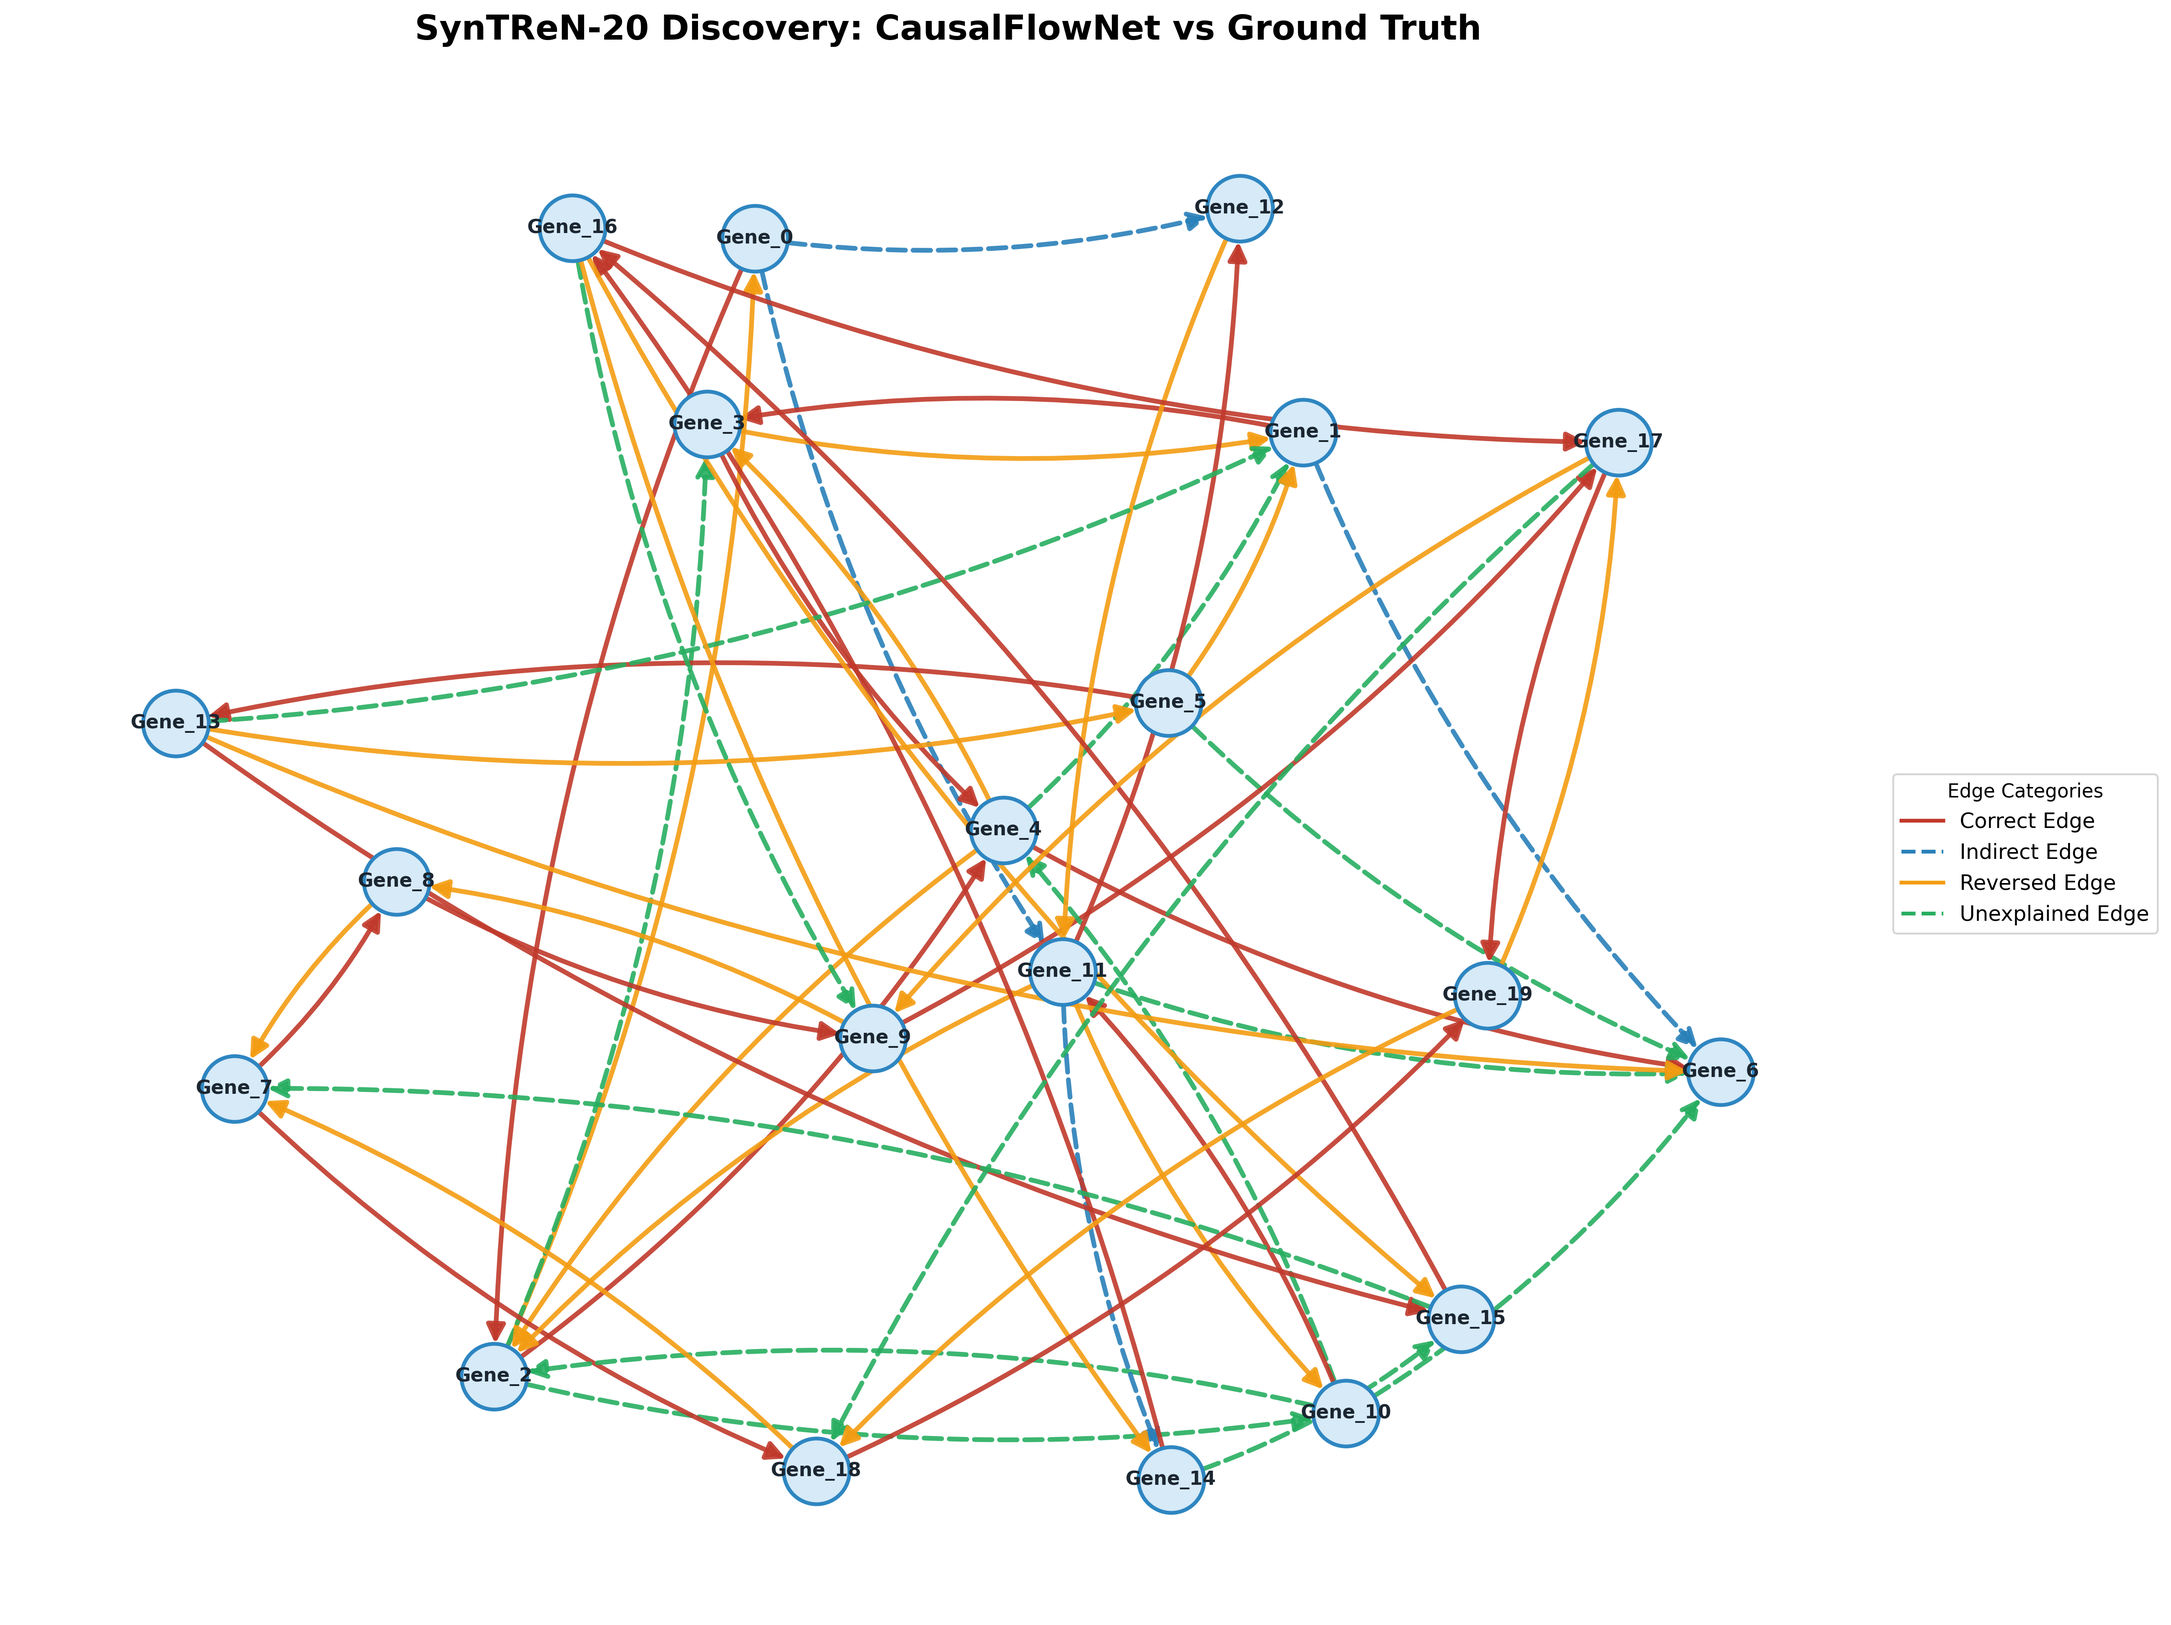
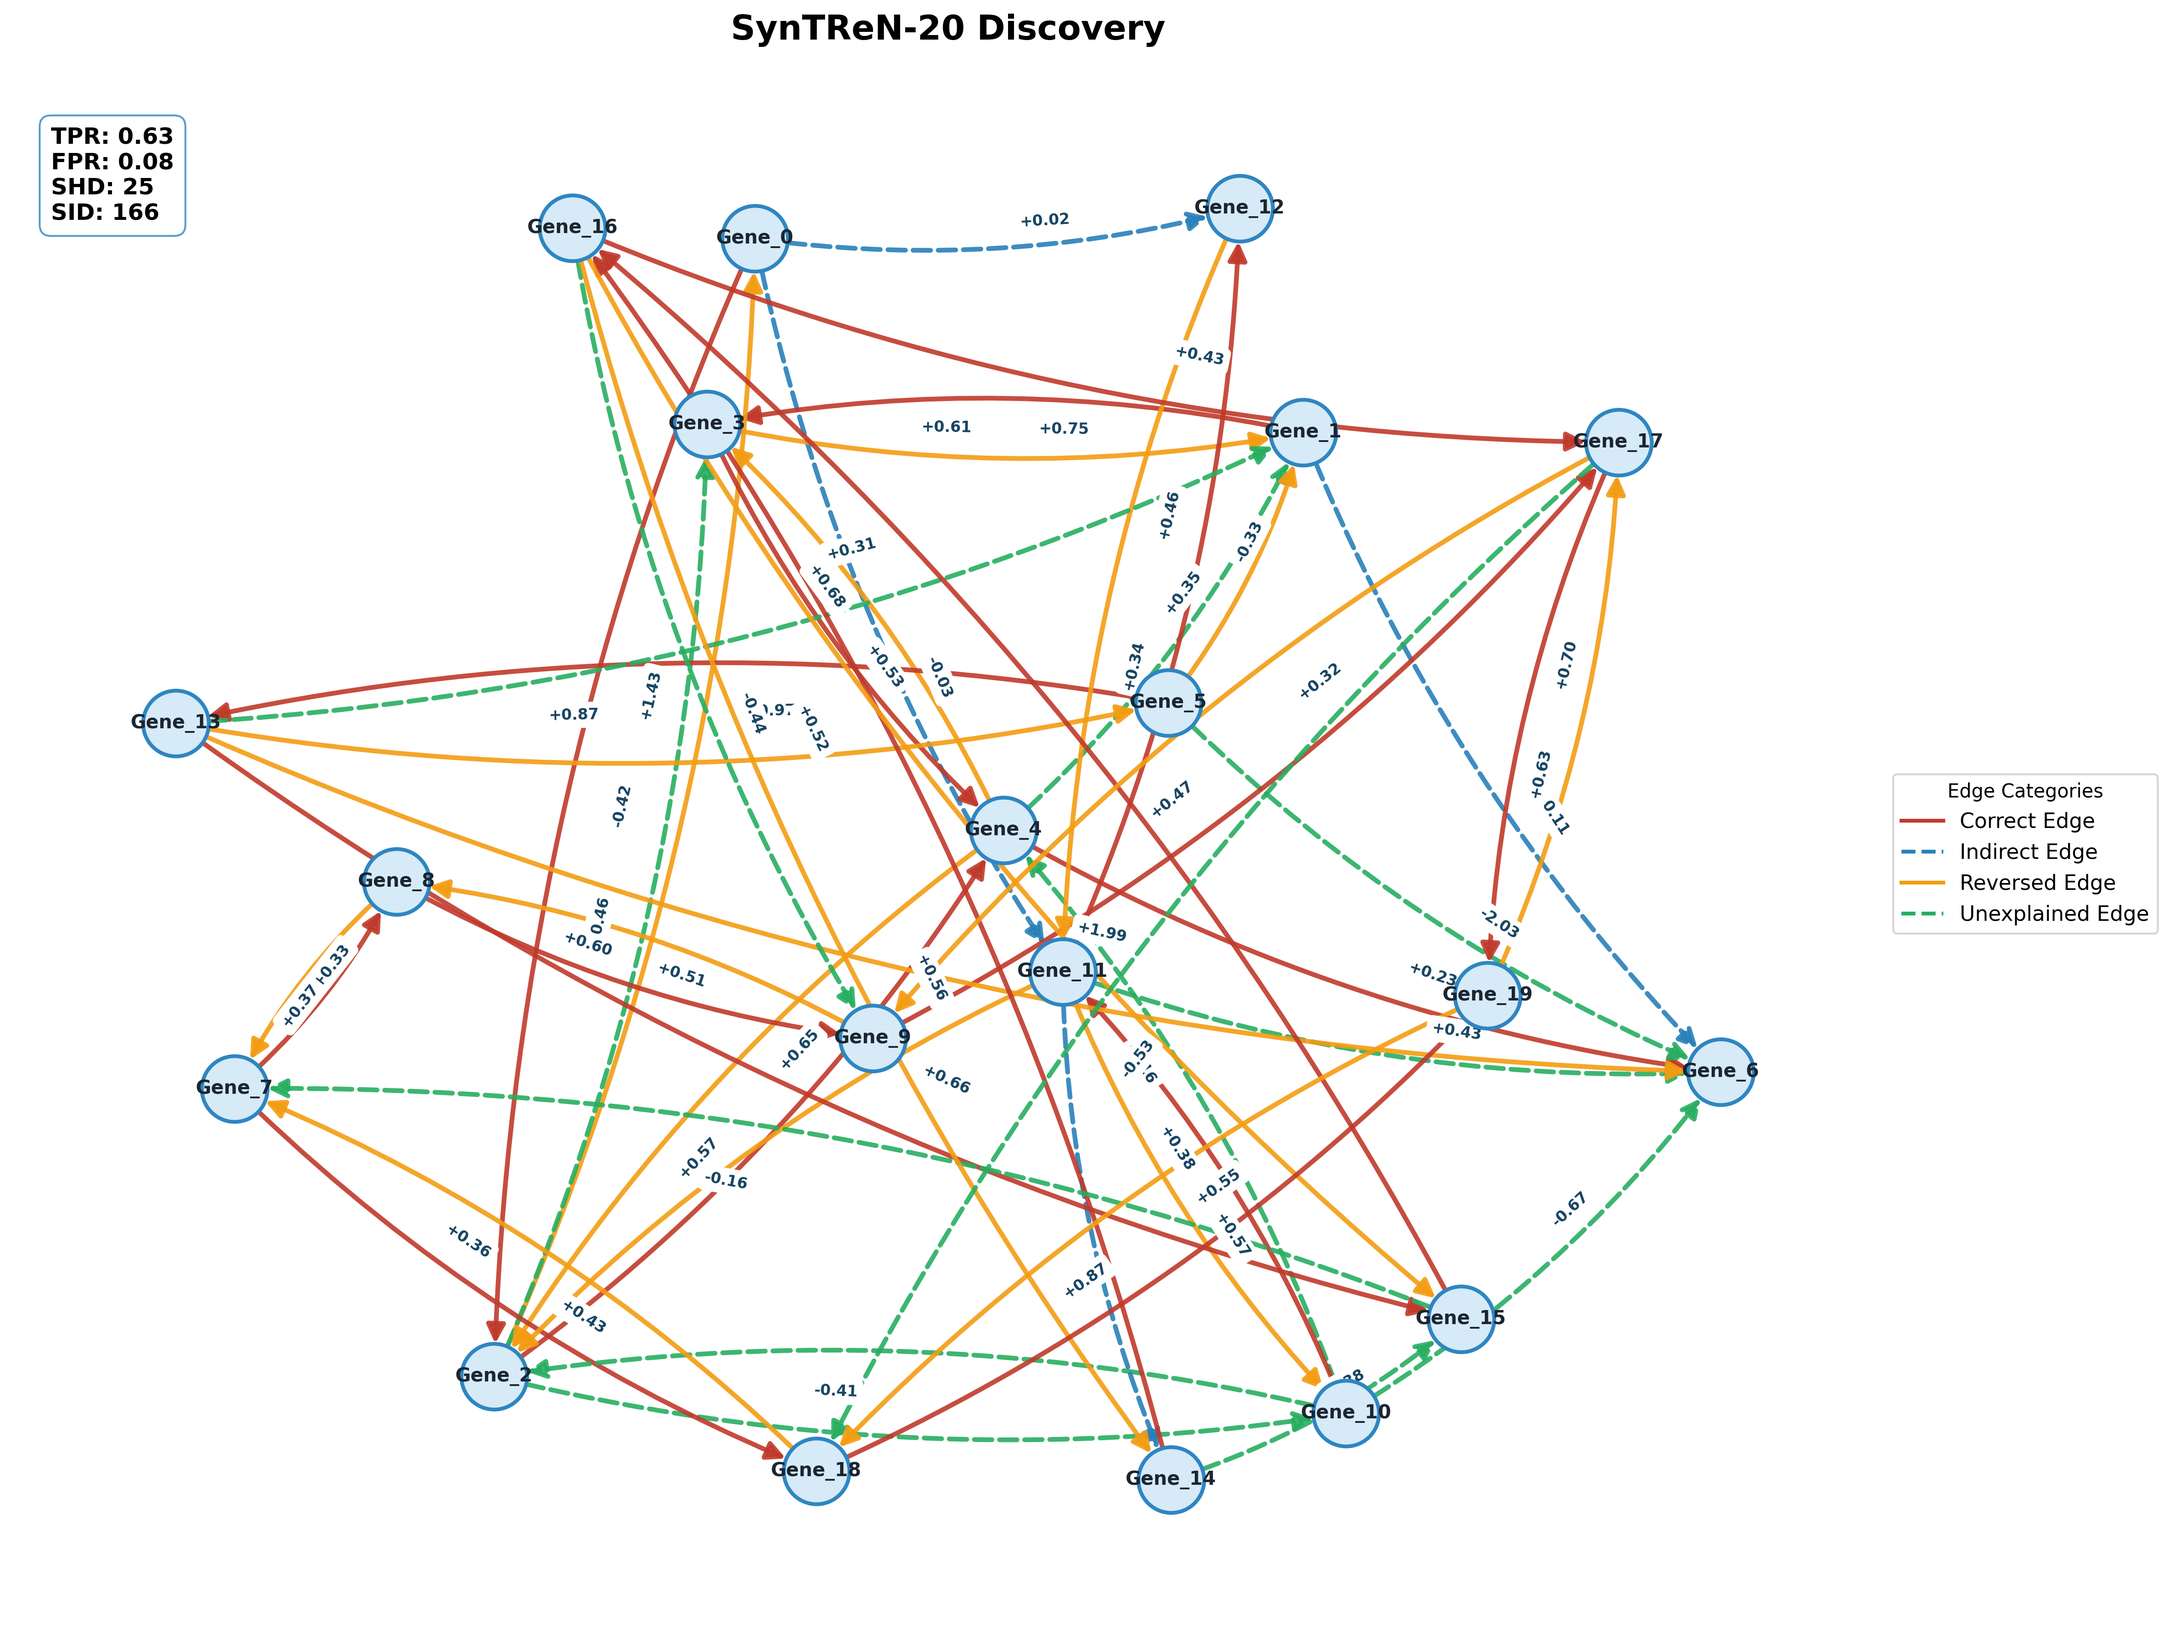
Clean up Chapter 3 visuals: remove GT diagrams, add interior ATE and Metrics to plots

diff --git a/test_sachs.py b/test_sachs.py
@@ -7,7 +7,7 @@ import seaborn as sns
 import networkx as nx
 from CausalFlowNet import CausalFlowNet
 from ultis.Evaluation import compute_metrics
-from ultis.visualize import plot_structure_comparison # Import premium comparison visualizer
+from ultis.visualize import plot_dag # Import premium visualizer / Nhập bộ vẽ hình cao cấp
 
 # Configuration
 CONFIG = {
@@ -94,46 +94,48 @@ def run_experiment():
     est_adj = (abs_weights > threshold).astype(int)
     metrics = compute_metrics(true_adj, est_adj)
     
-    display_results(model, X.cpu().numpy(), metrics, true_adj, est_adj, adj_weights, node_names)
+    # 6. Compute ATE Matrix for visualization / Tính toán ma trận ATE để trực quan hóa
+    ate_matrix = np.zeros((n_vars, n_vars))
+    for i in range(n_vars):
+        for j in range(n_vars):
+            if est_adj[i, j] == 1:
+                ate_matrix[i, j] = model.estimate_ate(X.cpu().numpy(), i, j)
     
-    # 6. Visual Comparison / So sánh bằng hình ảnh
-    visualize_comparison(true_adj, est_adj, node_names, adj_weights)
+    # 7. Visual Comparison / So sánh bằng hình ảnh
+    visualize_comparison(true_adj, est_adj, node_names, adj_weights, ate_matrix, metrics)
 
-def visualize_comparison(true_adj, est_adj, node_names, adj_weights):
+def visualize_comparison(true_adj, est_adj, node_names, adj_weights, ate_matrix, metrics):
     """
     Generate professional visualizations using the unified visualize.py suite.
     Tạo hình ảnh chuyên nghiệp bằng bộ công cụ visualize.py thống nhất.
     """
-    # 1. Adjacency Matrix Comparison (Heatmaps) / So sánh ma trận kề (Bản đồ nhiệt)
-    plt.figure(figsize=(16, 7))
-    plt.subplot(1, 2, 1)
-    sns.heatmap(true_adj, annot=True, cbar=False, cmap="Blues", 
-                xticklabels=node_names, yticklabels=node_names)
-    plt.title("Ground Truth Adjacency Matrix\n(Ma trận kề thực tế)")
-    
-    plt.subplot(1, 2, 2)
+    # 1. Adjacency Matrix Visualization / Trực quan hóa ma trận kề
+    plt.figure(figsize=(8, 7))
     sns.heatmap(est_adj, annot=True, cbar=False, cmap="Reds", 
                 xticklabels=node_names, yticklabels=node_names)
     plt.title("Estimated Adjacency Matrix\n(Ma trận kề ước tính)")
     
     plt.tight_layout()
     plt.savefig("sachs_adjacency_comparison.png")
-    print(f"\n[Artifact] Adjacency comparison saved to sachs_adjacency_comparison.png")
+    print(f"\n[Artifact] Estimated adjacency matrix saved to sachs_adjacency_comparison.png")
     plt.close()
 
-    # 2. Premium Causal Graph Comparison / So sánh đồ thị nhân quả cao cấp
-    # Using plot_structure_comparison to show GT and Discovery side-by-side
-    # Sử dụng plot_structure_comparison để hiển thị GT và Kết quả song song
-    plot_structure_comparison(
+    # 2. Premium Causal Graph with ATE Labels and Metrics
+    # We no longer use plot_structure_comparison to focus only on Discovered Graph
+    # Chúng ta không dùng plot_structure_comparison nữa để tập trung vào Đồ thị khám phá được
+    plot_dag(
         W_matrix=adj_weights, 
-        GT_matrix=true_adj, 
         labels=node_names, 
-        title="Sachs Dataset: Causal Discovery Analysis",
+        GT_matrix=true_adj, 
+        ate_matrix=ate_matrix,
+        metrics=metrics,
+        title="Sachs Dataset: Discovered Causal Structure (with ATE)",
         threshold=0.1, 
         save_path="sachs_graph_comparison.png",
-        figure_size=(18, 9)
+        figure_size=(14, 10),
+        node_size=2200
     )
-    print(f"[Artifact] Side-by-side graph comparison saved to sachs_graph_comparison.png")
+    print(f"[Artifact] Professional causal graph with ATE and Metrics saved to sachs_graph_comparison.png")
 
 def display_results(model, data, metrics, true_adj, est_adj, weights, node_names):
     print("\n" + "="*40)

diff --git a/test_syntren.py b/test_syntren.py
@@ -85,7 +85,7 @@ def generate_complex_regulatory_data(N=2000):
     return torch.tensor(data, dtype=torch.float32, device=device), true_adj
 
 def run_experiment():
-    print("=== CausalFlowNet V2 Experiment: Complex Regulatory (SynTReN-like) ===")
+    print("=== CausalFlowNet Experiment: Complex Regulatory (SynTReN-like) ===")
     set_seed(CONFIG['seed'])
     
     # 1. Generate Data
@@ -120,43 +120,46 @@ def run_experiment():
     # 5. Display Results / Hiển thị kết quả
     display_results(model, X.cpu().numpy(), metrics, true_adj, est_adj, adj_weights, node_names, threshold)
     
-    # 6. Visual Comparison / So sánh bằng hình ảnh
-    visualize_comparison(true_adj, est_adj, node_names, adj_weights)
+    # 6. Compute ATE Matrix for visualization / Tính toán ma trận ATE để trực quan hóa
+    ate_matrix = np.zeros((n_vars, n_vars))
+    for i in range(n_vars):
+        for j in range(n_vars):
+            if est_adj[i, j] == 1:
+                ate_matrix[i, j] = model.estimate_ate(X.cpu().numpy(), i, j)
+    
+    # 7. Visual Comparison / So sánh bằng hình ảnh
+    visualize_comparison(true_adj, est_adj, node_names, adj_weights, ate_matrix, metrics)
 
-def visualize_comparison(true_adj, est_adj, node_names, adj_weights):
+def visualize_comparison(true_adj, est_adj, node_names, adj_weights, ate_matrix, metrics):
     """
     Generate professional visualizations for SynTReN.
     Tạo hình ảnh chuyên nghiệp cho SynTReN.
     """
-    # 1. Adjacency Matrix Comparison (Heatmaps)
-    plt.figure(figsize=(16, 7))
-    plt.subplot(1, 2, 1)
-    sns.heatmap(true_adj, annot=False, cbar=False, cmap="Blues", 
-                xticklabels=False, yticklabels=False)
-    plt.title("SynTReN Ground Truth Matrix")
-    
-    plt.subplot(1, 2, 2)
+    # 1. Adjacency Matrix Visualization / Trực quan hóa ma trận kề
+    plt.figure(figsize=(8, 7))
     sns.heatmap(est_adj, annot=False, cbar=False, cmap="Reds", 
                 xticklabels=False, yticklabels=False)
     plt.title("SynTReN Estimated Matrix")
     
     plt.tight_layout()
     plt.savefig("syntren_adjacency_comparison.png")
-    print(f"\n[Artifact] Adjacency comparison saved to syntren_adjacency_comparison.png")
+    print(f"\n[Artifact] Estimated adjacency matrix saved to syntren_adjacency_comparison.png")
     plt.close()
 
-    # 2. Premium Causal Graph Comparison
+    # 2. Premium Causal Graph with ATE Labels
     plot_dag(
         W_matrix=adj_weights, 
         labels=node_names, 
         GT_matrix=true_adj, 
-        title="SynTReN-20 Discovery: CausalFlowNet vs Ground Truth",
+        ate_matrix=ate_matrix,
+        metrics=metrics,
+        title="SynTReN-20 Discovery",
         threshold=0.08, # Discovery threshold
         save_path="syntren_graph_comparison.png",
         figure_size=(16, 12),
         node_size=1200
     )
-    print(f"[Artifact] Premium graph comparison saved to syntren_graph_comparison.png")
+    print(f"[Artifact] Professional graph with ATE labels and Metrics saved to syntren_graph_comparison.png")
 
 def display_results(model, data, metrics, true_adj, est_adj, weights, node_names, threshold):
     n_vars = true_adj.shape[0]

diff --git a/ultis/visualize.py b/ultis/visualize.py
@@ -8,12 +8,14 @@ except ImportError:
     nx = None # Handle missing packages / Xử lý khi thiếu thư viện
     plt = None
 
-def plot_dag(W_matrix, labels=None, GT_matrix=None, title="CausalFlowNet Discovery Graph",
+def plot_dag(W_matrix, labels=None, GT_matrix=None, ate_matrix=None, metrics=None, title="CausalFlowNet Discovery Graph",
              threshold=0.1, ax=None, save_path=None, node_size=2000,
              font_size=10, figure_size=(12, 9)):
     """
     Render a weighted causal DAG as a directed graph. / Vẽ đồ thị DAG nhân quả có trọng số.
     Supports comparison with Ground Truth if GT_matrix is provided. / Hỗ trợ so sánh với nhãn thực tế (Ground Truth).
+    Also supports displaying ATE labels on edges if ate_matrix is provided. / Hỗ trợ hiển thị nhãn ATE nếu có ate_matrix.
+    Display performance metrics (TPR, FPR, etc.) if metrics dict is provided. / Hiển thị các chỉ số hiệu năng nếu có metrics.
     """
     if nx is None or plt is None:
         raise ImportError("Install required packages: pip install networkx matplotlib")
@@ -109,6 +111,35 @@ def plot_dag(W_matrix, labels=None, GT_matrix=None, title="CausalFlowNet Discove
                                width=2.5,
                                connectionstyle="arc3,rad=0.1", # Slight curve for better visibility / Bo cong nhẹ để dễ nhìn
                                node_size=node_size, alpha=0.9)
+    
+    # NEW: Draw ATE labels on edges / MỚI: Vẽ nhãn ATE trên các cạnh
+    if ate_matrix is not None:
+        edge_labels = {}
+        # Need to map back labels to indices to access ate_matrix
+        label_to_idx = {label: i for i, label in enumerate(labels)}
+        for u, v in edges:
+            u_idx = label_to_idx[u]
+            v_idx = label_to_idx[v]
+            ate_val = ate_matrix[u_idx, v_idx]
+            if abs(ate_val) > 0.001:
+                edge_labels[(u, v)] = f"{ate_val:+.2f}"
+        
+        nx.draw_networkx_edge_labels(G, pos, edge_labels=edge_labels, ax=ax,
+                                     font_size=font_size-2, font_color="#154360",
+                                     font_weight='bold', label_pos=0.6,
+                                     rotate=True, clip_on=False)
+
+    # NEW: Display metrics on the plot / MỚI: Hiển thị chỉ số hiệu năng trên hình
+    if metrics:
+        metrics_text = (
+            f"TPR: {metrics.get('tpr', 0):.2f}\n"
+            f"FPR: {metrics.get('fpr', 0):.2f}\n"
+            f"SHD: {metrics.get('shd', 0)}\n"
+            f"SID: {metrics.get('sid', 0)}"
+        )
+        ax.text(0.02, 0.98, metrics_text, transform=ax.transAxes, 
+                fontsize=font_size + 2, fontweight='bold', verticalalignment='top',
+                bbox=dict(boxstyle='round,pad=0.5', facecolor='white', alpha=0.8, edgecolor='#2e86c1'))
 
     # Formatting / Định dạng hình ảnh
     ax.set_title(title, fontsize=18, fontweight='bold', pad=30)

diff --git a/docx/Chuong3_KetQuaThucNghiem.md b/docx/Chuong3_KetQuaThucNghiem.md
@@ -43,11 +43,11 @@ Sau quá trình huấn luyện với chiến lược hai giai đoạn (Aggressiv
 | **SID** | **37** |
 | Số cạnh phát hiện | 14 / 18 |
 
-![So sánh ma trận kề Sachs](images/sachs_adjacency_comparison.png)
-*Hình 3.1: So sánh ma trận kề dự báo và ma trận kề chuẩn trên tập Sachs*
+![Ma trận kề Sachs](images/sachs_adjacency_comparison.png)
+*Hình 3.1: Ma trận kề nhân quả ước tính trên tập dữ liệu Sachs*
 
-![So sánh đồ thị nhân quả Sachs](images/sachs_graph_comparison.png)
-*Hình 3.2: Trực quan hóa đồ thị nhân quả thực tế (Trái) và đồ thị phục hồi (Phải) trên tập Sachs*
+![Đồ thị nhân quả Sachs có ATE và Metrics](images/sachs_graph_comparison.png)
+*Hình 3.2: Đồ thị nhân quả khám phá được trên tập Sachs (Tích hợp chỉ số Metrics và giá trị ATE trên từng cạnh)*
 
 **Nhận xét:** Mô hình duy trì mức FPR cực thấp (0.06). Tổng cộng, mô hình dự đoán được **14 cạnh**, trong đó có **8 cạnh chính xác (True Positives `[V]`)** và 6 cạnh sai hoặc bị nhận diện ngược hướng `[X]`. Mặc dù TPR đạt 0.44 (tìm được gần một nửa số cạnh chuẩn là 18 cạnh), các kết nối quan trọng nhất để kích hoạt tế bào đã được định vị thành công.
 
@@ -81,11 +81,11 @@ Trên tập dữ liệu mô phỏng SynTReN với quy mô lớn hơn (20 nút), 
 | **SHD** | **25** |
 | **SID** | **166** |
 
-![So sánh ma trận kề SynTReN](images/syntren_adjacency_comparison.png)
-*Hình 3.3: So sánh ma trận kề trên tập dữ liệu mô phỏng SynTReN (20 biến)*
+![Ma trận kề SynTReN](images/syntren_adjacency_comparison.png)
+*Hình 3.3: Ma trận kề nhân quả ước tính trên tập dữ liệu SynTReN (20 biến)*
 
-![So sánh đồ thị nhân quả SynTReN](images/syntren_graph_comparison.png)
-*Hình 3.4: Kết quả phục hồi cấu trúc đồ thị nhân quả trên tập SynTReN*
+![Đồ thị nhân quả SynTReN có ATE và Metrics](images/syntren_graph_comparison.png)
+*Hình 3.4: Kết quả phục hồi cấu trúc đồ thị nhân quả trên tập SynTReN (Tích hợp chỉ số Metrics và giá trị ATE)*
 
 **Cấu trúc Mạng và Cơ chế Sinh học Mô phỏng Phục hồi được:**
 CausalFlowNet đã dò tìm ra một lượng lớn các tương tác cốt lõi trong đồ thị. Các mối quan hệ nhân quả nổi bật (đúng chuẩn `[V]`) với hệ số ATE phản ứng mô phỏng thực tế động học có thể kể đến:
